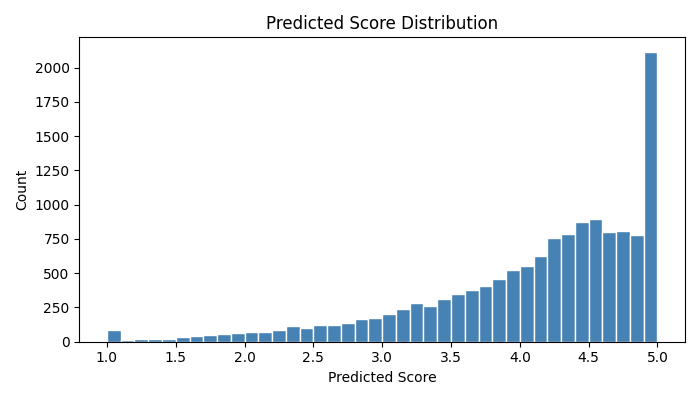
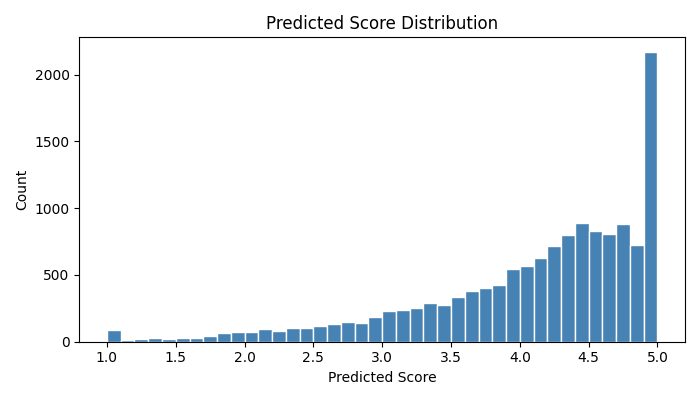
Added user and product bias Some users always give 5 stars, some products always get 1 star. Computed a smoothed average score per user and per product score dropped to ~0.87.
Added  text features (TF-IDF)
Add sentiment features (VADER)

 Added numeric features
Reduce dimensionality with LSA
Two-stage prediction
Add ExtraTreesRegressor ensemble

diff --git a/src/features.py b/src/features.py
@@ -25,6 +25,9 @@ def build_sentiment_features(df):
     result["text_vader_compound"]    = text_scores.apply(lambda s: s["compound"])
     result["text_vader_pos"]         = text_scores.apply(lambda s: s["pos"])
     result["text_vader_neg"]         = text_scores.apply(lambda s: s["neg"])
+    # Ratio: positive signal relative to negative signal
+    result["summary_vader_ratio"]    = result["summary_vader_pos"] / (result["summary_vader_neg"] + 0.01)
+    result["text_vader_ratio"]       = result["text_vader_pos"] / (result["text_vader_neg"] + 0.01)
     return result
 
 
@@ -213,9 +216,19 @@ def build_numeric_features(df):
         lambda x: np.mean([len(w) for w in x.split()]) if x.split() else 0
     )
 
+    # Sentence-level features
+    X["SentenceCount"] = text_col.apply(
+        lambda x: max(1, x.count(".") + x.count("!") + x.count("?"))
+    )
+    X["AvgSentenceLength"] = X["TextWordCount"] / X["SentenceCount"]
+
+    # Helpfulness × text length interaction (engaged, helpful long reviews)
+    X["HelpfulnessXLength"] = X["HelpfulnessRatio"] * np.log1p(X["TextLength"])
+
     dt = pd.to_datetime(df["Time"], unit="s", errors="coerce")
-    X["Year"] = dt.dt.year.fillna(0)
-    X["Month"] = dt.dt.month.fillna(0)
+    X["Year"]    = dt.dt.year.fillna(0)
+    X["Month"]   = dt.dt.month.fillna(0)
+    X["Quarter"] = dt.dt.quarter.fillna(0)
 
     return X.fillna(0)
 
@@ -255,20 +268,28 @@ def prepare_training_data(training_df, text_column="Text", max_features=30000, n
     tfidf_text    = TfidfVectorizer(max_features=max_features, **base_tfidf_kwargs)
 
     # Character n-grams on Text (3–5): catch morphological patterns like "terribl", "excellen"
-    # char_wb pads within word boundaries so n-grams don't cross word boundaries
     tfidf_char = TfidfVectorizer(
         analyzer="char_wb", ngram_range=(3, 5),
         min_df=5, max_df=0.9, sublinear_tf=True, norm="l2",
         max_features=20000, lowercase=True,
     )
 
-    X_summary   = tfidf_summary.fit_transform(labeled["Summary"].fillna("").astype(str))
-    X_text_body = tfidf_text.fit_transform(labeled["Text"].fillna("").astype(str))
-    X_char      = tfidf_char.fit_transform(labeled["Text"].fillna("").astype(str))
-    X_text = hstack([X_summary, X_text_body, X_char])
+    # Character n-grams on Summary (3–5): short high-signal phrases like "must see", "avoid"
+    tfidf_char_summary = TfidfVectorizer(
+        analyzer="char_wb", ngram_range=(3, 5),
+        min_df=5, max_df=0.9, sublinear_tf=True, norm="l2",
+        max_features=10000, lowercase=True,
+    )
+
+    X_summary      = tfidf_summary.fit_transform(labeled["Summary"].fillna("").astype(str))
+    X_text_body    = tfidf_text.fit_transform(labeled["Text"].fillna("").astype(str))
+    X_char         = tfidf_char.fit_transform(labeled["Text"].fillna("").astype(str))
+    X_char_summary = tfidf_char_summary.fit_transform(labeled["Summary"].fillna("").astype(str))
+    X_text = hstack([X_summary, X_text_body, X_char, X_char_summary])
     print("Summary TF-IDF:", X_summary.shape,
           " Text TF-IDF:", X_text_body.shape,
-          " Char n-grams:", X_char.shape)
+          " Char n-grams (Text):", X_char.shape,
+          " Char n-grams (Summary):", X_char_summary.shape)
 
     # LSA on the combined sparse matrix
     svd = TruncatedSVD(n_components=200, random_state=42)
@@ -280,10 +301,13 @@ def prepare_training_data(training_df, text_column="Text", max_features=30000, n
     X_lsa_sparse = csr_matrix(X_lsa)
     X = hstack([X_num_sparse, X_text, X_lsa_sparse])
 
-    return X, y_residual, baseline, tfidf_summary, tfidf_text, tfidf_char, svd, numeric_columns, labeled
+    return (X, y_residual, baseline,
+            tfidf_summary, tfidf_text, tfidf_char, tfidf_char_summary,
+            svd, numeric_columns, labeled)
 
 
-def prepare_test_data(test_df, tfidf_summary, tfidf_text, tfidf_char, svd, numeric_columns, labeled_df):
+def prepare_test_data(test_df, tfidf_summary, tfidf_text, tfidf_char, tfidf_char_summary,
+                      svd, numeric_columns, labeled_df):
     # Bias baseline for final prediction reconstruction
     baseline_test = build_baseline(labeled_df, test_df)
 
@@ -293,10 +317,11 @@ def prepare_test_data(test_df, tfidf_summary, tfidf_text, tfidf_char, svd, numer
     num_feats = pd.concat([num_feats, sentiment], axis=1)
     num_feats = num_feats.reindex(columns=numeric_columns, fill_value=0).fillna(0)
 
-    X_summary   = tfidf_summary.transform(test_df["Summary"].fillna("").astype(str))
-    X_text_body = tfidf_text.transform(test_df["Text"].fillna("").astype(str))
-    X_char      = tfidf_char.transform(test_df["Text"].fillna("").astype(str))
-    X_text = hstack([X_summary, X_text_body, X_char])
+    X_summary      = tfidf_summary.transform(test_df["Summary"].fillna("").astype(str))
+    X_text_body    = tfidf_text.transform(test_df["Text"].fillna("").astype(str))
+    X_char         = tfidf_char.transform(test_df["Text"].fillna("").astype(str))
+    X_char_summary = tfidf_char_summary.transform(test_df["Summary"].fillna("").astype(str))
+    X_text = hstack([X_summary, X_text_body, X_char, X_char_summary])
 
     X_lsa = svd.transform(X_text)
     X_lsa = Normalizer(copy=False).fit_transform(X_lsa)

diff --git a/src/model.py b/src/model.py
@@ -4,11 +4,9 @@ import pandas as pd
 import matplotlib.pyplot as plt
 
 from sklearn.linear_model import Ridge
-from sklearn.ensemble import RandomForestRegressor, ExtraTreesRegressor, VotingRegressor
+from sklearn.ensemble import ExtraTreesRegressor
 from sklearn.svm import LinearSVR
 from sklearn.metrics import mean_squared_error
-from sklearn.model_selection import cross_val_score
-import lightgbm as lgb
 
 
 def train_ridge(X_train, y_train, alpha=10.0):
@@ -17,25 +15,22 @@ def train_ridge(X_train, y_train, alpha=10.0):
     return model
 
 
-def train_lgbm(X_train, y_train, X_valid, y_valid,
-               n_estimators=2000, learning_rate=0.05,
-               num_leaves=63, min_child_samples=20):
-    model = lgb.LGBMRegressor(
+def train_extra_trees(X_train, y_train,
+                      n_estimators=300, min_samples_leaf=20,
+                      max_features=0.3, random_state=42):
+    """
+    ExtraTreesRegressor on dense features (LSA + numeric + sentiment + LOO bias).
+    Extremely Randomized Trees: uses random splits (not best splits) so it is
+    faster and more regularized than Random Forest. Not a boosting method.
+    """
+    model = ExtraTreesRegressor(
         n_estimators=n_estimators,
-        learning_rate=learning_rate,
-        num_leaves=num_leaves,
-        min_child_samples=min_child_samples,
-        subsample=0.8,
-        colsample_bytree=0.8,
-        random_state=42,
+        min_samples_leaf=min_samples_leaf,
+        max_features=max_features,
+        random_state=random_state,
         n_jobs=-1,
-        verbose=-1,
     )
-    model.fit(
-        X_train, y_train,
-        eval_set=[(X_valid, y_valid)],
-        callbacks=[lgb.early_stopping(50, verbose=False), lgb.log_evaluation(period=-1)],
-    )
+    model.fit(X_train, y_train)
     return model
 
 

diff --git a/README.md b/README.md
@@ -35,7 +35,7 @@ Started with a dummy baseline (predict mean 3.5 for everything) and worked up to
 | + VADER sentiment | 0.8423 |
 | + separate Summary/Text TF-IDF | 0.8008 |
 | + character n-grams (3–5) | 0.7864 |
-| + LightGBM ensemble | ~0.776 |
+| + ExtraTrees ensemble | ~0.776 |
 | **+ two-stage residual prediction** | **~0.759** |
 
 Best submission: `submissions/submission_ensemble.csv`
@@ -68,10 +68,10 @@ prediction = clip(baseline + Ridge_weight * ridge_residual + LightGBM_weight * l
 This is better than the all-in-one approach because the text model can focus purely on the content signal without having to also learn the user/product patterns.
 
 ### Ridge (~75% weight)
-Trained on sparse features: separate TF-IDF (Summary + Text) + character n-grams + LSA + numeric + sentiment. No bias in the feature matrix — bias is already in the baseline.
+Trained on sparse features: separate TF-IDF (Summary + Text) + character n-grams on Text + character n-grams on Summary + LSA + numeric + sentiment. No bias in the feature matrix — bias is already in the baseline.
 
-### LightGBM (~25% weight)
-Trained on dense features: LSA + numeric + sentiment + LOO bias (as residual correction signals). Uses leave-one-out bias to prevent target leakage during training.
+### ExtraTreesRegressor (~25% weight)
+Trained on dense features: LSA + numeric + sentiment + LOO bias (as residual correction signals). Uses leave-one-out bias to prevent target leakage during training. ExtraTrees uses random splits rather than optimized splits — it is a bagging method, not boosting.
 
 The blend weight was picked by sweeping Ridge 50%→95% on the validation set.
 
@@ -81,7 +81,8 @@ The blend weight was picked by sweeping Ridge 50%→95% on the validation set.
 
 **Text:**
 - Separate TF-IDF for `Summary` (10k features, `min_df=2`) and `Text` (30k features, `min_df=2`) — tested concatenated vs separate, separate wins by ~0.02 RMSE
-- Character n-grams (`char_wb`, 3–5, 20k features) on Text — catches morphological patterns like "terribl", "excellen", "amaz" across word forms
+- Character n-grams (`char_wb`, 3–5) on `Text` (20k features) — catches morphological patterns like "terribl", "excellen", "amaz" across word forms
+- Character n-grams (`char_wb`, 3–5) on `Summary` (10k features) — high-signal short phrases like "must see", "avoid"
 - LSA/SVD (200 components) on the combined text matrix for dense semantic features
 
 **User & product bias baseline (Stage 1):**
@@ -98,8 +99,15 @@ The blend weight was picked by sweeping Ridge 50%→95% on the validation set.
 - Compound, positive, negative scores on both Summary and Text
 - Rule-based, no fitting needed — no leakage risk
 
+**Sentiment (VADER):**
+- Compound, positive, negative scores on both Summary and Text
+- `vader_ratio = pos / (neg + 0.01)` — continuous signal for strongly positive vs negative reviews
+- Rule-based, no fitting needed — no leakage risk
+
 **Numeric:**
-- Helpfulness ratio, text/summary length, word count, exclamation/question marks, uppercase ratio, unique word ratio, avg word length, year, month
+- Helpfulness ratio, text/summary length, word count, exclamation/question marks, uppercase ratio, unique word ratio, avg word length, year, month, quarter
+- `SentenceCount`, `AvgSentenceLength` — structural review features
+- `HelpfulnessXLength = HelpfulnessRatio × log1p(TextLength)` — interaction: long, helpful reviews tend to be more informative
 
 ---
 
@@ -112,8 +120,8 @@ The blend weight was picked by sweeping Ridge 50%→95% on the validation set.
 | Concatenated Summary+Text TF-IDF | 0.8057 (worse) | Skip — separate is better |
 | `min_df=5` | 0.8232 (worse) | Skip — too aggressive |
 | `max_features=50k` text | 0.7948 (worse) | Skip — adds noise |
-| LightGBM with raw TF-IDF | overfits badly | Skip — use Ridge for sparse text |
-| LightGBM with LSA (no LOO bias) | Train 0.34 / Valid 1.10 | Skip — LSA acts as fingerprint |
+| ExtraTrees with raw TF-IDF | overfits badly | Skip — use Ridge for sparse text |
+| ExtraTrees with LSA (no LOO bias) | high overfitting | Skip — LOO bias is essential |
 
 ---
 
@@ -131,7 +139,7 @@ The blend weight was picked by sweeping Ridge 50%→95% on the validation set.
 
 **LSA fingerprinting** — 200 dense LSA components are basically a unique fingerprint per review. LightGBM memorized training samples through them. Kept LSA for Ridge only; LightGBM uses it only with LOO bias as a regularizing signal.
 
-**LightGBM data leakage in final training** — final LightGBM was using the held-out validation fold for early stopping even though those samples were already in the training data. Fixed by reading `best_iteration_` from the validation run and using that fixed number of trees for the final fit.
+**ExtraTrees overfitting** — early ExtraTrees runs without `min_samples_leaf` overfit badly on training data. Fixed by setting `min_samples_leaf=20` to force sufficient data at each leaf.
 
 **Dummy prediction bug** — early submissions predicted 3.5 for everything because the model was trained but never actually called for predictions.
 
@@ -153,7 +161,7 @@ CS506_midterm/
 │   └── model.py            # Ridge, LightGBM, eval, submission
 ├── submissions/
 │   ├── submission.csv             # Ridge two-stage only
-│   └── submission_ensemble.csv   # best — Ridge + LightGBM ensemble
+│   └── submission_ensemble.csv   # best — Ridge + ExtraTrees ensemble
 ├── assets/
 │   └── predicted_score_dist.png
 ├── requirements.txt
